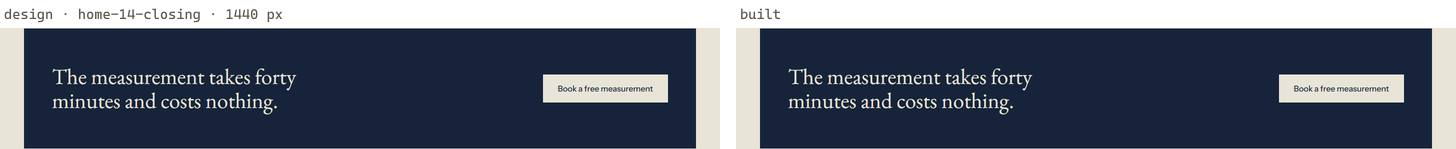
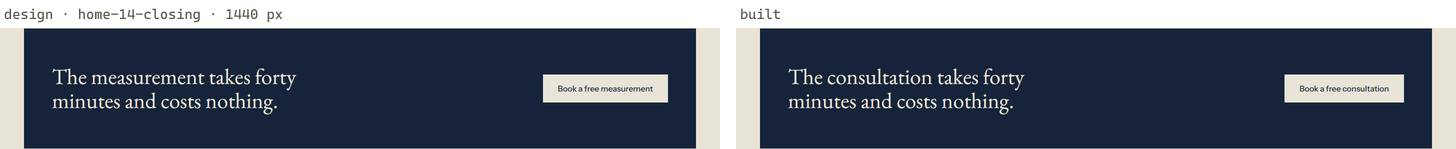
P2-M0.9: Phase 1 aligned with Phase 2, "consultation" and a 4-8 pm evening
The owner ruled that Phase 2 wins where the two disagree (ADR 0025, item 4).
The first visit is now a consultation everywhere the site names it: the
buttons, the booking and booked pages, How it works, the FAQ, the try-on's
error screens, the terms, the calendar event and the lead route's summary.
"Measures" stays where the copy says what happens at the visit.

The evening window is 4 to 8 pm: window_label is "after four" and the
calendar file books 16:00-20:00 India time. The stored window values are
unchanged, so no lead, Zoho field or migration changes. The payment copy
stays until P2-M5.

ADR 0040, and ADR 0022 item 36. The 17 fidelity pairs that show the words
are regenerated.

Changed region(s): [[0.5563, 0.4564, 0.7109, 0.6174], [0.8654, 0.5101, 0.9581, 0.698]]

diff --git a/site/src/content/site.ts b/site/src/content/site.ts
@@ -219,7 +219,7 @@ export const legalPages = {
     title: "Terms",
     paragraphs: [
       "These terms cover the service Mane Man Grooming Services Private Limited provides: non-surgical hair systems, measured, fitted and serviced at your home across Delhi NCR. By booking a visit or using the try-on you agree to them. We may change them; the version on this page when you book is the one that applies to that booking.",
-      "The first visit is a measurement: forty minutes, free, and with no obligation to order. Nothing is fitted at it. We confirm the day and time on WhatsApp, and you can move or cancel any visit by messaging us, at no charge. Prices are the ones published on this site when you order. The first fit, which covers the piece, the fitting and the cut, is paid on the day of the fit by card, UPI or bank transfer, and each service visit is paid when it is made. We take no deposit and sell no package.",
+      "The first visit is a consultation: forty minutes, free, and with no obligation to order. Nothing is fitted at it. We confirm the day and time on WhatsApp, and you can move or cancel any visit by messaging us, at no charge. Prices are the ones published on this site when you order. The first fit, which covers the piece, the fitting and the cut, is paid on the day of the fit by card, UPI or bank transfer, and each service visit is paid when it is made. We take no deposit and sell no package.",
       "If the fit is not right, we refit it at no charge, or refund you in full, including the fitting and the cut, within fourteen days of the fit. A hair system is bonded to the skin, so tell the technician about any skin condition, allergy or treatment before the fit; if a system is not suitable for you, we say so and do not fit it. A base wears with use and its life depends on its care, so the replacement intervals we publish are typical, not promised.",
       "The try-on is an illustrative simulation made by software from one photograph. It is not a photograph of a result, and not a promise of how a fitted piece will look: a fitted piece is matched to your own hair colour, density and growth pattern. Upload only a photograph of yourself, and only if you are eighteen or over. Each visitor gets one simulation.",
       "We are responsible for the care and skill of our technicians. Beyond a refit or refund under the guarantee, and except where the law provides otherwise, our liability for a visit is limited to what you paid for it. These terms are governed by the laws of India, and the courts at New Delhi have jurisdiction. For questions or complaints, message or call us on +91 90079 73247.",
@@ -280,7 +280,7 @@ export const hero = {
   title: "Hair, fitted at your home across Delhi NCR.",
   body: "A technician comes to your home, matches the piece to the hair you already have, and fits it in about ninety minutes.",
   tryOn: "See yourself with hair",
-  book: "Book a free measurement",
+  book: "Book a free consultation",
 };
 
 export const whatItIs = {
@@ -377,7 +377,7 @@ export const norwood = {
       },
     ] satisfies NorwoodStage[],
   },
-  book: "Book a free measurement",
+  book: "Book a free consultation",
 };
 
 /** A comparison cell: text, or a tick (true) or cross (false). */
@@ -427,7 +427,7 @@ export const howItWorks = {
     },
     {
       number: "02",
-      title: "Measurement at home",
+      title: "Consultation at home",
       body: "A template of your scalp taken in cling film and tape, and your hair colour matched against forty samples in daylight.",
       meta: "Forty minutes · free",
     },
@@ -519,7 +519,7 @@ export const prices = {
   ],
   example: "A standard base in the first year: ₹25,000 plus twelve service visits at ₹1,500 — ₹43,000.",
   payment: "Payment on the day of the fit. Card, UPI or bank transfer.",
-  book: "Book a free measurement",
+  book: "Book a free consultation",
   tryOn: "Or see yourself with hair first",
 };
 
@@ -554,7 +554,7 @@ export const faq = {
     },
     {
       q: "How do you match the colour and the hairline?",
-      a: "Colour is matched against forty samples in daylight at the measurement visit, including the grey percentage. The hairline is drawn on your forehead with a pencil and agreed before the piece is ordered.",
+      a: "Colour is matched against forty samples in daylight at the consultation, including the grey percentage. The hairline is drawn on your forehead with a pencil and agreed before the piece is ordered.",
     },
     {
       q: "What if I do not like it at the fit?",
@@ -576,8 +576,8 @@ export const faq = {
 };
 
 export const closing = {
-  title: "The measurement takes forty minutes and costs nothing.",
-  book: "Book a free measurement",
+  title: "The consultation takes forty minutes and costs nothing.",
+  book: "Book a free consultation",
 };
 
 // ---------------------------------------------------------------------------
@@ -738,7 +738,7 @@ export const tryOn = {
     pending: "Still working on it",
     disclaimer:
       "This is an illustrative simulation, not a photograph of a result. A fitted piece is matched to your own hair colour, density and growth pattern, and will differ.",
-    book: "Book a free measurement",
+    book: "Book a free consultation",
     download: "Download",
     whatsapp: "WhatsApp",
     copy: { before: "A copy is on its way to ", after: ". Deleted after thirty days." },
@@ -765,20 +765,20 @@ export const tryOn = {
         step: "Something went wrong",
         frame: "The simulation failed",
         title: "The simulation did not work this time.",
-        body: "The photograph looked fine; the simulation failed on our side. Try again with the same photograph or another, or book a measurement and see it in person.",
+        body: "The photograph looked fine; the simulation failed on our side. Try again with the same photograph or another, or book a consultation and see it in person.",
       },
       busy: {
         step: "Please try again shortly",
         frame: "The simulation is busy",
         title: "The simulation is busy just now.",
-        body: "Too many people are trying it at once, or it could not be reached. Please try again in a little while, or book a measurement and see it in person.",
+        body: "Too many people are trying it at once, or it could not be reached. Please try again in a little while, or book a consultation and see it in person.",
       },
       /** Only when this browser's look can no longer be shown: otherwise the page shows it again. */
       lookLimit: {
         step: "One look per visitor",
         frame: "Your look is no longer kept",
         title: "You have had your look.",
-        body: "Each visitor gets one simulation, and this browser has had its one, which is no longer kept. The measurement shows you the real thing, in person, and costs nothing.",
+        body: "Each visitor gets one simulation, and this browser has had its one, which is no longer kept. The consultation shows you the real thing, in person, and costs nothing.",
       },
     },
   },
@@ -802,7 +802,7 @@ if (visitWindows.map((window) => window.id).join() !== VISIT_WINDOWS.join()) {
 }
 
 export const booking = {
-  title: "Book a free measurement",
+  title: "Book a free consultation",
   intro:
     "Nothing is fitted on the first visit. He measures your scalp and matches your colour, then leaves. Forty minutes, nothing to pay.",
   name: "Name",
@@ -834,10 +834,10 @@ export const booking = {
   },
   booked: {
     /** When every day in reach is blacked out, the API proposes none. */
-    noDate: "Your measurement is booked.",
+    noDate: "Your consultation is booked.",
     confirmation: "He will confirm the hour on WhatsApp by tomorrow evening.",
     rows: {
-      what: { k: "What happens", v: "Measurement, not a fitting" },
+      what: { k: "What happens", v: "Consultation, not a fitting" },
       howLong: { k: "How long", v: "Forty minutes" },
       pay: { k: "To pay", v: "Nothing" },
       where: { k: "Where", v: "Your address" },
@@ -872,7 +872,7 @@ export const notFound = {
 export const pageTitles = {
   home: "Mane Man — hair, fitted at your home across Delhi NCR",
   tryOn: "See yourself with hair — Mane Man",
-  book: "Book a free measurement — Mane Man",
+  book: "Book a free consultation — Mane Man",
   privacy: "Privacy — Mane Man",
   terms: "Terms — Mane Man",
   notFound: "Not found — Mane Man",

diff --git a/e2e/home.e2e.ts b/e2e/home.e2e.ts
@@ -120,7 +120,7 @@ test.describe("home sections", () => {
     await page.goto("/");
     const hero = page.locator('[data-section="hero"]');
     await expect(hero.getByRole("link", { name: "See yourself with hair" })).toHaveAttribute("href", "/try");
-    await expect(hero.getByRole("link", { name: "Book a free measurement" })).toHaveAttribute("href", "/book");
+    await expect(hero.getByRole("link", { name: "Book a free consultation" })).toHaveAttribute("href", "/book");
   });
 
   test("the hero footage is muted, looped, inline and fetches metadata only", async ({ page }) => {
@@ -138,13 +138,13 @@ test.describe("home sections", () => {
     expect(await page.locator(".label", { hasText: /^Placeholder$/ }).count()).toBeGreaterThan(10);
   });
 
-  test("Norwood: two early stages, five we fit, then Book a free measurement", async ({ page }) => {
+  test("Norwood: two early stages, five we fit, then Book a free consultation", async ({ page }) => {
     await page.goto("/");
     const norwood = page.locator('[data-section="norwood"]');
     await expect(norwood.locator(".early > li")).toHaveCount(2);
     await expect(norwood.locator(".flow > li")).toHaveCount(5);
     await expect(norwood.getByText("A system here would cover hair you still have.")).toBeVisible();
-    await expect(norwood.getByRole("link", { name: "Book a free measurement" })).toHaveAttribute("href", "/book");
+    await expect(norwood.getByRole("link", { name: "Book a free consultation" })).toHaveAttribute("href", "/book");
   });
 
   test("comparison: seven rows, ticks and crosses read as Yes and No", async ({ page }) => {
@@ -191,7 +191,7 @@ test.describe("home sections", () => {
     const table = page.getByRole("table", { name: "Published prices" });
     await expect(table.getByRole("row")).toHaveCount(4);
     const prices = page.locator('[data-section="prices"]');
-    await expect(prices.getByRole("link", { name: "Book a free measurement" })).toHaveAttribute("href", "/book");
+    await expect(prices.getByRole("link", { name: "Book a free consultation" })).toHaveAttribute("href", "/book");
     await expect(prices.getByRole("link", { name: "Or see yourself with hair first" })).toHaveAttribute("href", "/try");
   });
 
@@ -205,11 +205,11 @@ test.describe("home sections", () => {
     await expect(items.nth(0)).not.toHaveAttribute("open", "");
   });
 
-  test("the closing band books a free measurement", async ({ page }) => {
+  test("the closing band books a free consultation", async ({ page }) => {
     await page.goto("/");
     const closing = page.locator('[data-section="closing"]');
-    await expect(closing).toContainText("The measurement takes forty minutes and costs nothing.");
-    await expect(closing.getByRole("link", { name: "Book a free measurement" })).toHaveAttribute("href", "/book");
+    await expect(closing).toContainText("The consultation takes forty minutes and costs nothing.");
+    await expect(closing.getByRole("link", { name: "Book a free consultation" })).toHaveAttribute("href", "/book");
   });
 });
 

diff --git a/e2e/book.e2e.ts b/e2e/book.e2e.ts
@@ -135,11 +135,11 @@ test("booked: the API's date and window, the five rows, and a calendar file for 
   const download = page.waitForEvent("download");
   await page.getByRole("button", { name: "Add to calendar" }).click();
   const file = await download;
-  expect(file.suggestedFilename()).toBe("mane-man-measurement.ics");
+  expect(file.suggestedFilename()).toBe("mane-man-consultation.ics");
   const text = await (await file.createReadStream()).toArray().then((chunks) => Buffer.concat(chunks).toString());
   expect(text).toContain("DTSTART:20260925T033000Z");
   expect(text).toContain("DTEND:20260925T063000Z");
-  expect(text).toContain("SUMMARY:Mane Man measurement (time to be confirmed)");
+  expect(text).toContain("SUMMARY:Mane Man consultation (time to be confirmed)");
 });
 
 test("booked without a proposed day: no date, no calendar file", async ({ page }) => {
@@ -147,7 +147,7 @@ test("booked without a proposed day: no date, no calendar file", async ({ page }
   await visit(page, "/book");
   await fillForm(page);
   await page.getByRole("button", { name: "Request a visit" }).click();
-  await expect(page.getByRole("heading", { level: 1 })).toHaveText("Your measurement is booked.");
+  await expect(page.getByRole("heading", { level: 1 })).toHaveText("Your consultation is booked.");
   await expect(page.getByRole("button", { name: "Add to calendar" })).toHaveCount(0);
 });
 
@@ -198,7 +198,7 @@ test("the city list failing to load says so", async ({ page }) => {
 test("the layout is v2's as it renders: the intro, then the form card below it", async ({ page }) => {
   await mockApi(page, BOOKED);
   await visit(page, "/book");
-  const intro = await page.getByRole("heading", { name: "Book a free measurement" }).boundingBox();
+  const intro = await page.getByRole("heading", { name: "Book a free consultation" }).boundingBox();
   const card = await page.locator("form").boundingBox();
   expect(card?.y ?? 0).toBeGreaterThan((intro?.y ?? 0) + (intro?.height ?? 0));
   expect(Math.round(card?.x ?? 0)).toBe(Math.round(intro?.x ?? 0));

diff --git a/test/node/site-booking.test.ts b/test/node/site-booking.test.ts
@@ -6,7 +6,7 @@ import { tmpdir } from "node:os";
 import { join } from "node:path";
 import { describe, expect, it } from "vitest";
 import { attributionFrom } from "../../site/src/lib/attribution.ts";
-import { measurementCalendar } from "../../site/src/lib/calendar.ts";
+import { consultationCalendar } from "../../site/src/lib/calendar.ts";
 
 describe("attribution", () => {
   it("keeps the campaign tags, the landing path and another site as the referrer", () => {
@@ -35,7 +35,7 @@ describe("the calendar file", () => {
   const now = new Date("2026-09-22T06:00:00Z");
 
   it("covers the morning window, 09:00 to 12:00 in India, in UTC", () => {
-    const text = measurementCalendar("2026-09-24", "before noon", "lead-1", now);
+    const text = consultationCalendar("2026-09-24", "before noon", "lead-1", now);
     expect(text).toContain("DTSTART:20260924T033000Z\r\n");
     expect(text).toContain("DTEND:20260924T063000Z\r\n");
     expect(text).toContain("UID:lead-1@maneman.in\r\n");
@@ -43,11 +43,11 @@ describe("the calendar file", () => {
     expect(text.startsWith("BEGIN:VCALENDAR\r\n")).toBe(true);
   });
 
-  it("covers the evening window, 18:00 to 21:00 in India", () => {
-    const text = measurementCalendar("2026-09-24", "after six", "lead-1", now);
-    expect(text).toContain("DTSTART:20260924T123000Z");
-    expect(text).toContain("DTEND:20260924T153000Z");
-    expect(text).toContain("SUMMARY:Mane Man measurement (time to be confirmed)");
+  it("covers the evening window, 16:00 to 20:00 in India", () => {
+    const text = consultationCalendar("2026-09-24", "after four", "lead-1", now);
+    expect(text).toContain("DTSTART:20260924T103000Z");
+    expect(text).toContain("DTEND:20260924T143000Z");
+    expect(text).toContain("SUMMARY:Mane Man consultation (time to be confirmed)");
   });
 });
 

diff --git a/site/src/islands/Booking.tsx b/site/src/islands/Booking.tsx
@@ -13,7 +13,7 @@ import type { LossExtent, VisitWindow } from "../../../src/config/booking.ts";
 import { booking, stageOptions, visitWindows } from "../content/site.ts";
 import { track } from "../lib/analytics.ts";
 import { fetchCities, submitLead, type City, type ErrorCode, type LeadResponse } from "../lib/api.ts";
-import { measurementCalendar } from "../lib/calendar.ts";
+import { consultationCalendar } from "../lib/calendar.ts";
 import { bookedHeadline } from "../lib/dates.ts";
 import { ICONS } from "@maneman/brand/icons";
 import { formatMobile, isCompleteMobile } from "../lib/phone.ts";
@@ -38,7 +38,7 @@ const SAMPLE_BOOKED: LeadResponse = {
   lead_id: "00000000-0000-4000-8000-000000000000",
   served: true,
   proposed_visit_date: "2026-09-24",
-  window_label: "after six",
+  window_label: "after four",
 };
 
 /** What the visitor is told when the API refuses; field errors show by their fields instead. */
@@ -371,9 +371,9 @@ function Booked(props: { result: LeadResponse; mobile: string; heading: { curren
             class="btn btn--lg btn--ink"
             onClick={() => {
               downloadFile(
-                "mane-man-measurement.ics",
+                "mane-man-consultation.ics",
                 "text/calendar",
-                measurementCalendar(date, windowLabel, props.result.lead_id, new Date()),
+                consultationCalendar(date, windowLabel, props.result.lead_id, new Date()),
               );
             }}
           >

diff --git a/site/src/lib/calendar.ts b/site/src/lib/calendar.ts
@@ -1,15 +1,15 @@
 // "Add to calendar": an .ics file for the proposed visit, made in the browser.
 // The hour is not fixed yet, so the event covers the whole window in India's
-// time: 09:00–12:00 before noon, 18:00–21:00 after six.
+// time: 09:00–12:00 before noon, 16:00–20:00 after four.
 
 const WINDOWS: Readonly<Record<string, readonly [string, string]>> = {
   // In UTC: India is 5 h 30 min ahead.
   "before noon": ["033000", "063000"],
-  "after six": ["123000", "153000"],
+  "after four": ["103000", "143000"],
 };
 
 /** The calendar file for a visit on `date` (YYYY-MM-DD) in the given window. */
-export function measurementCalendar(date: string, windowLabel: string, id: string, now: Date): string {
+export function consultationCalendar(date: string, windowLabel: string, id: string, now: Date): string {
   const [start, end] = WINDOWS[windowLabel] ?? WINDOWS["before noon"] ?? ["", ""];
   const day = date.replace(/-/g, "");
   const stamp = now
@@ -27,7 +27,7 @@ export function measurementCalendar(date: string, windowLabel: string, id: strin
     `DTSTAMP:${stamp}`,
     `DTSTART:${day}T${start}Z`,
     `DTEND:${day}T${end}Z`,
-    "SUMMARY:Mane Man measurement (time to be confirmed)",
+    "SUMMARY:Mane Man consultation (time to be confirmed)",
     "END:VEVENT",
     "END:VCALENDAR",
     "",

diff --git a/src/config/booking.ts b/src/config/booking.ts
@@ -20,12 +20,13 @@ export const LOSS_EXTENT_NAMES: Readonly<Record<LossExtent, string>> = {
   advanced: "Advanced",
 };
 
-export const WINDOW_LABELS = ["before noon", "after six"] as const;
+/** Morning is 9 am to noon; evening is 4 to 8 pm, Phase 2's evening window (docs/decisions/0040-phase-1-alignment.md). */
+export const WINDOW_LABELS = ["before noon", "after four"] as const;
 export type WindowLabel = (typeof WINDOW_LABELS)[number];
 
 /** The end of the booked page's headline: "Thursday, 24 September, before noon." */
 export function windowLabel(window: VisitWindow): WindowLabel {
-  return window.endsWith("_am") ? "before noon" : "after six";
+  return window.endsWith("_am") ? "before noon" : "after four";
 }
 
 export function isWeekendWindow(window: VisitWindow): boolean {

diff --git a/test/worker/lead.test.ts b/test/worker/lead.test.ts
@@ -87,13 +87,13 @@ describe("POST /api/lead: a served city", () => {
     expect(queue.sent).toEqual([{ lead_id: body.lead_id, request_id: res.headers.get("X-Request-Id") }]);
   });
 
-  it("proposes the first weekend day for a weekend window, after six for an evening", async () => {
+  it("proposes the first weekend day for a weekend window, after four for an evening", async () => {
     const res = await request(appFor(), "/api/lead", post({ ...BOOKING, first_choice_window: "weekend_pm" }), {
       CRM_QUEUE: fakeQueue(),
     });
     expect(LeadResponseSchema.parse(await res.json())).toMatchObject({
       proposed_visit_date: "2026-09-26", // Saturday
-      window_label: "after six",
+      window_label: "after four",
     });
   });
 

diff --git a/e2e/book-api.e2e.ts b/e2e/book-api.e2e.ts
@@ -40,9 +40,9 @@ test("a served city is booked with the API's proposed day and window", async ({ 
   expect(response.status()).toBe(201);
   const lead = (await response.json()) as { proposed_visit_date: string; window_label: string };
   await expect(page.getByRole("heading", { level: 1 })).toHaveText(
-    new RegExp(`^[A-Z][a-z]+day, ${String(Number(lead.proposed_visit_date.slice(8)))} [A-Z][a-z]+, after six\\.$`),
+    new RegExp(`^[A-Z][a-z]+day, ${String(Number(lead.proposed_visit_date.slice(8)))} [A-Z][a-z]+, after four\\.$`),
   );
-  expect(lead.window_label).toBe("after six");
+  expect(lead.window_label).toBe("after four");
 });
 
 test("an unserved city joins the waitlist", async ({ page }) => {

diff --git a/e2e/try.e2e.ts b/e2e/try.e2e.ts
@@ -206,7 +206,7 @@ test.describe("result", () => {
     await expect(
       page.getByText("This is an illustrative simulation, not a photograph of a result.", { exact: false }),
     ).toBeVisible();
-    await expect(page.getByRole("link", { name: "Book a free measurement" })).toHaveAttribute("href", "/book");
+    await expect(page.getByRole("link", { name: "Book a free consultation" })).toHaveAttribute("href", "/book");
     await expect(page.getByRole("button", { name: "Download" })).toBeVisible();
     await expect(page.getByRole("button", { name: "WhatsApp" })).toBeVisible();
     await expect(page.getByText("A copy is on its way to +91 98100 00000. Deleted after thirty days.")).toBeVisible();

diff --git a/site/src/lib/api-schema.ts b/site/src/lib/api-schema.ts
@@ -103,7 +103,7 @@ export interface paths {
         };
         get?: never;
         put?: never;
-        /** Book a free measurement, or join a city's waitlist */
+        /** Book a free consultation, or join a city's waitlist */
         post: {
             parameters: {
                 query?: never;
@@ -850,7 +850,7 @@ export interface components {
              * @description Served cities only.
              * @enum {string}
              */
-            window_label?: "before noon" | "after six";
+            window_label?: "before noon" | "after four";
         };
         LeadRequest: {
             name: string;

diff --git a/e2e/launch.e2e.ts b/e2e/launch.e2e.ts
@@ -29,7 +29,7 @@ test("the home page loads under 60 KB of JavaScript, gzipped, and none of the tr
 const ROUTES = [
   { path: "/", title: "Mane Man — hair, fitted at your home across Delhi NCR" },
   { path: "/try", title: "See yourself with hair — Mane Man" },
-  { path: "/book", title: "Book a free measurement — Mane Man" },
+  { path: "/book", title: "Book a free consultation — Mane Man" },
   { path: "/privacy", title: "Privacy — Mane Man" },
   { path: "/terms", title: "Terms — Mane Man" },
 ];
